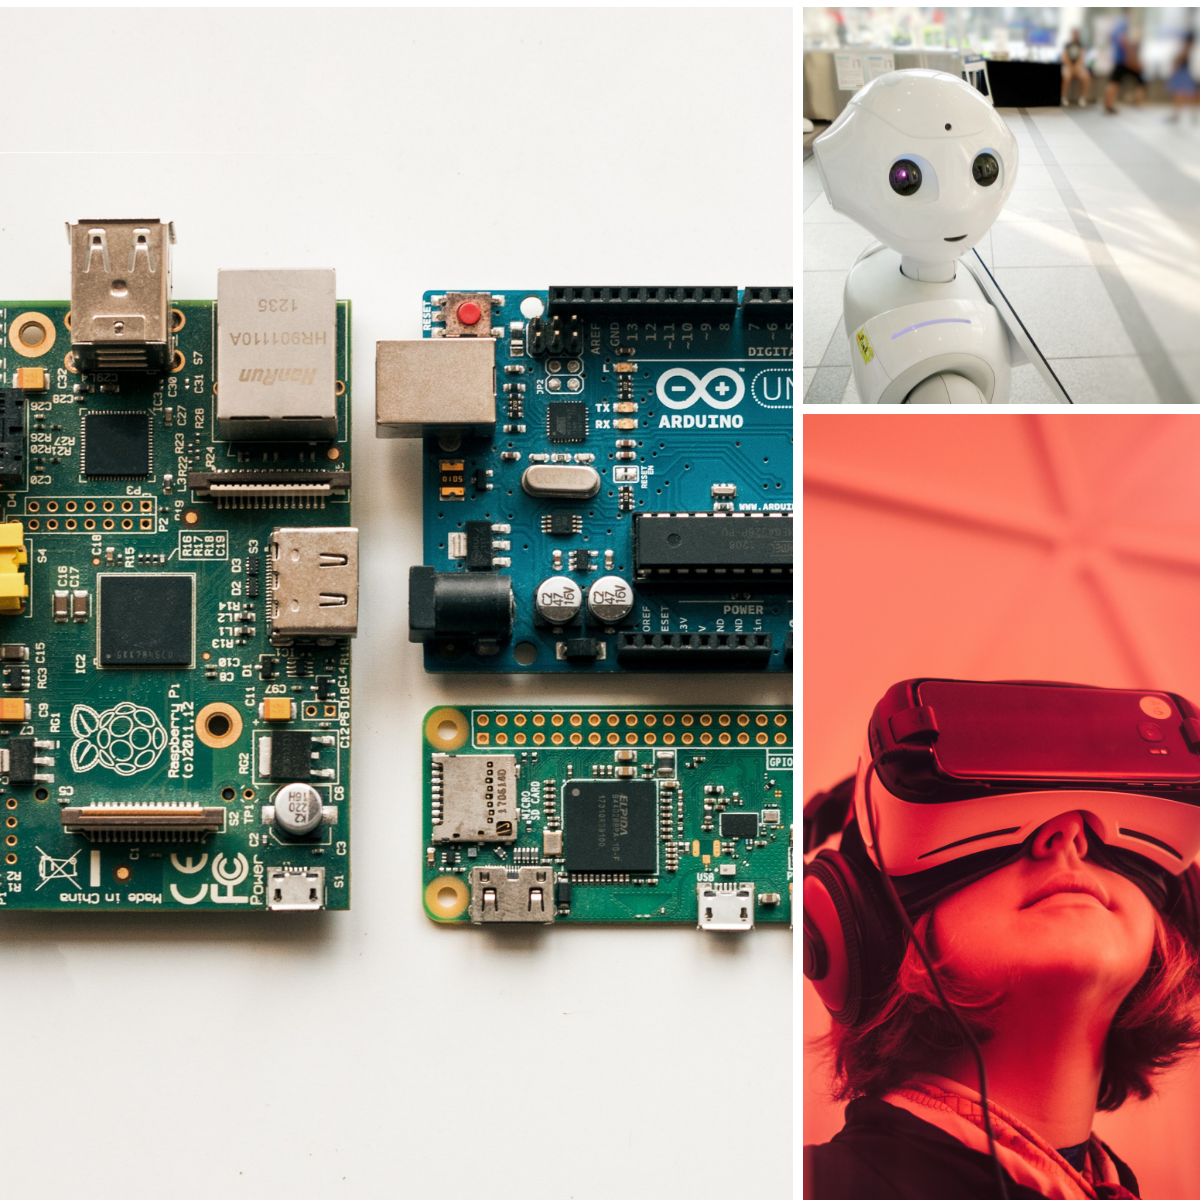
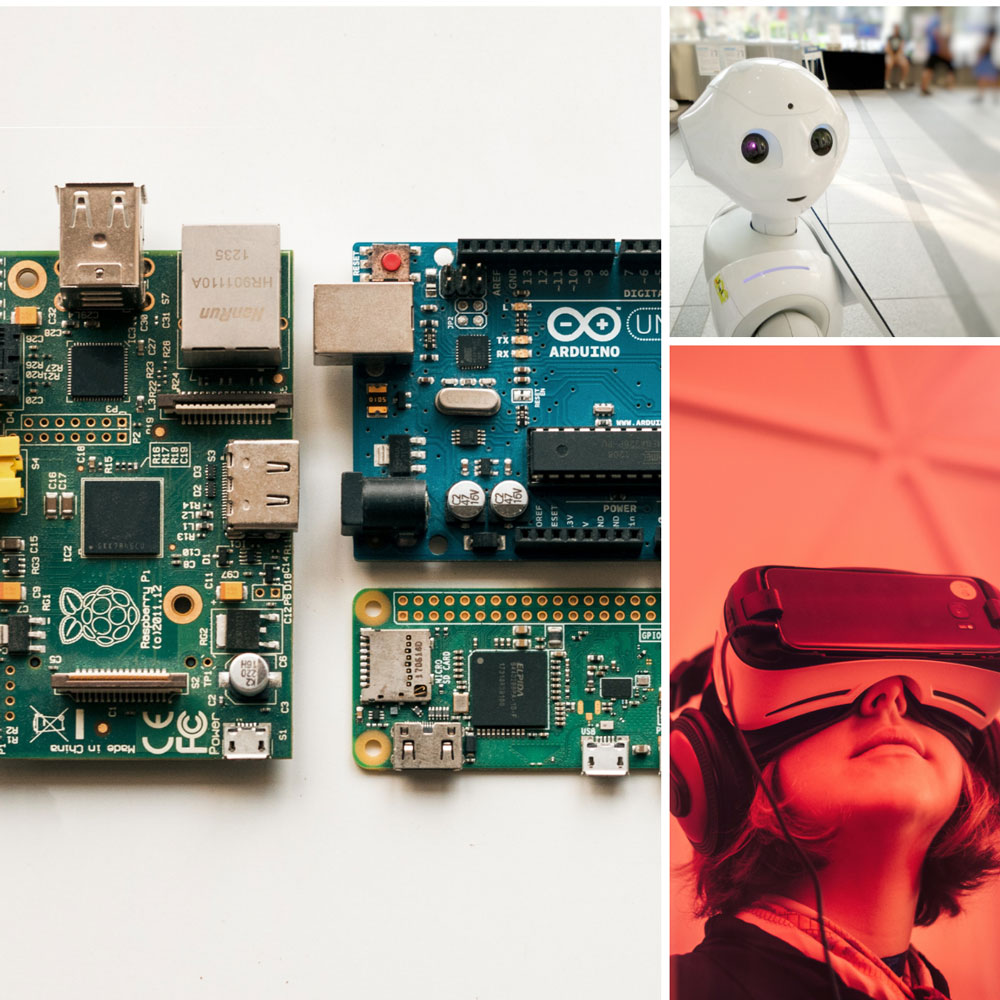
fix image sizes to under 200kb

diff --git a/exhibitions.html b/exhibitions.html
@@ -81,7 +81,7 @@
             <p>Are you a young person looking to learn more about science? Come on down to our museum, there’s plenty to see and do. Her you can learn about Newtonian physics from our bumper swing, or travel back in time and meet Woolly Mammoth?</p>
             <div class="center_content">
                 <img src="/images/exhibition_images/for-the-kids-01.jpeg" alt="kids doing technology" class="exhibition_image ">
-                <img src="/images/exhibition_images/for-the-kids-02.png" alt="technology exhibition" class="exhibition_image ">
+                <img src="/images/exhibition_images/for-the-kids-02.jpg" alt="technology exhibition" class="exhibition_image ">
             </div>
             <h3>For the kids</h3>
             <p>We also have the Young Stars club which meets once a week on a Saturday between 10:00 and 13:00 where you’ll get to explore and experiment with our team of experts.</p>
@@ -135,7 +135,7 @@
                         penicillin and the first heart transplant. </p>
                     <p>Many of our great medicinal discoveries have come not only from the lab, but also from observing
                         animals in the wild. Often our fellow creatures have beat us to it.</p>
-                        <img src="/images/exhibition_images/biology.png" alt="collage of a plastic brain, plastic heart, and some testing tubes" class="exhibition_image">
+                        <img src="/images/exhibition_images/biology.jpg" alt="collage of a plastic brain, plastic heart, and some testing tubes" class="exhibition_image">
                 </div>
 
             </div>

diff --git a/index.html b/index.html
@@ -55,7 +55,7 @@
                 <div class="info_section">
                     <p>Come join us at the Community Science Museum where we’re committed to making science accessible to all.</p>
                     <p>Over the course of human history, science has developed from our early understanding of fire, wind, water, and earth to exploring everything from galaxies far away to the very building blocks of life itself.</p>
-                    <img class="images" src="/images/resepsjonenThomas_Buikema_Fjrtoft-tekniskmuseum_norge.jpeg" alt="science museum reception">
+                    <img class="images" src="/images/resepsjonenThomas_Buikema_Fjrtoft-tekniskmuseum_norge.jpg" alt="science museum reception">
                     <p>Are you a young person looking to learn more about science? Come on down to our museum, there’s plenty to see and do. <a href="/about_us.html">you can fin us her</a></p>
                 </div>
             </section>

diff --git a/about_us.html b/about_us.html
@@ -73,7 +73,7 @@
                         <p>Email: science.museum@mail.com</p>
                     </div>
                 </div>
-                <img class="map_image" src="/images/map.png" alt="">
+                <img class="map_image" src="/images/map.jpg" alt="">
             </div>
         </section>
 

diff --git a/assets/css/exhibitions.css b/assets/css/exhibitions.css
@@ -44,7 +44,14 @@
 .center_content img {
 margin:20px;
 }
+@media only screen and (min-width: 768px) {
 
+  .exhibition_image  {
+    width: 500px;
+    display: block;
+    margin: auto;
+  }
+}
 
 
 @media only screen and (min-width: 1024px) {
